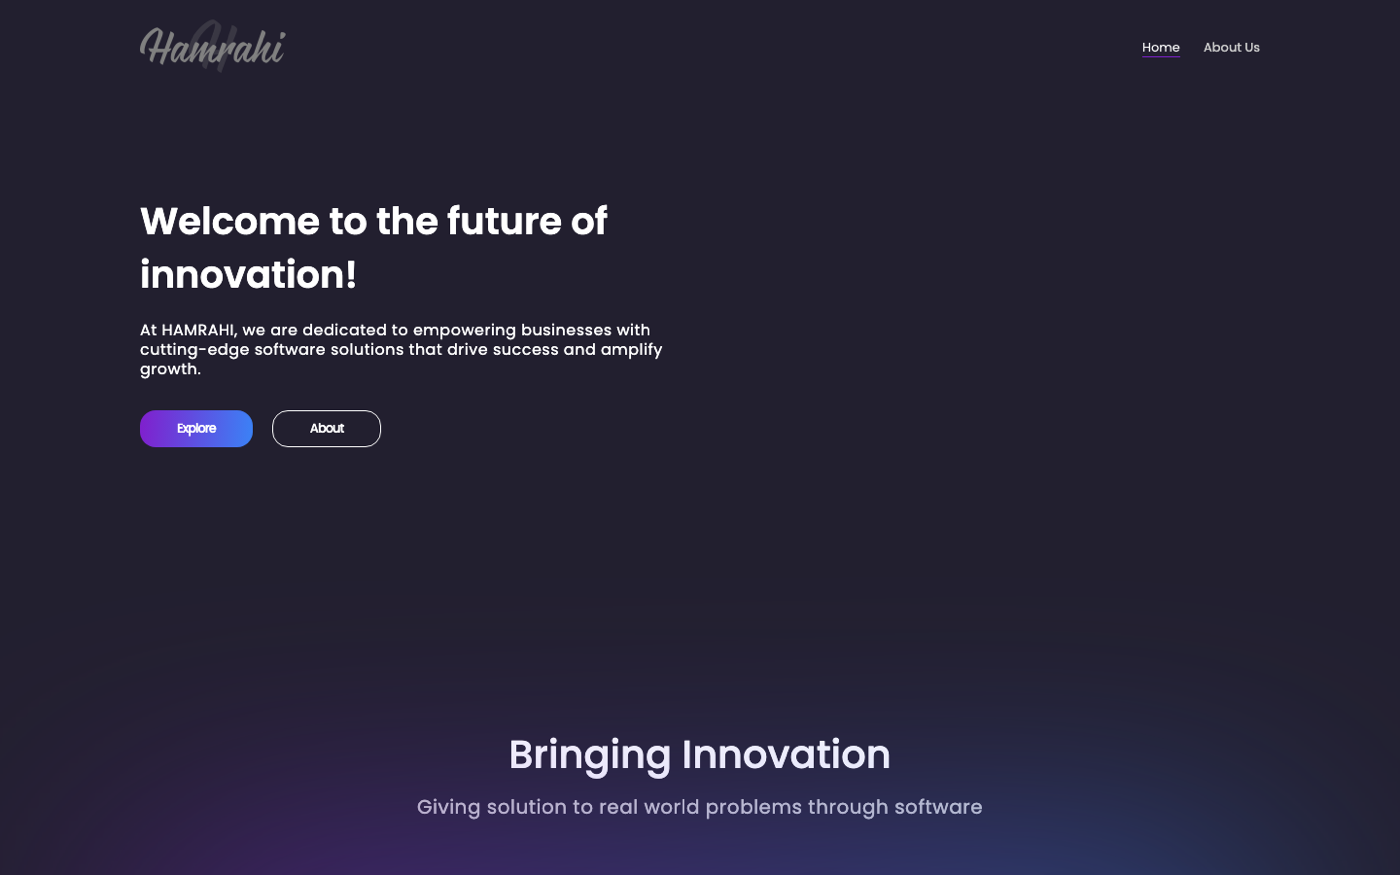
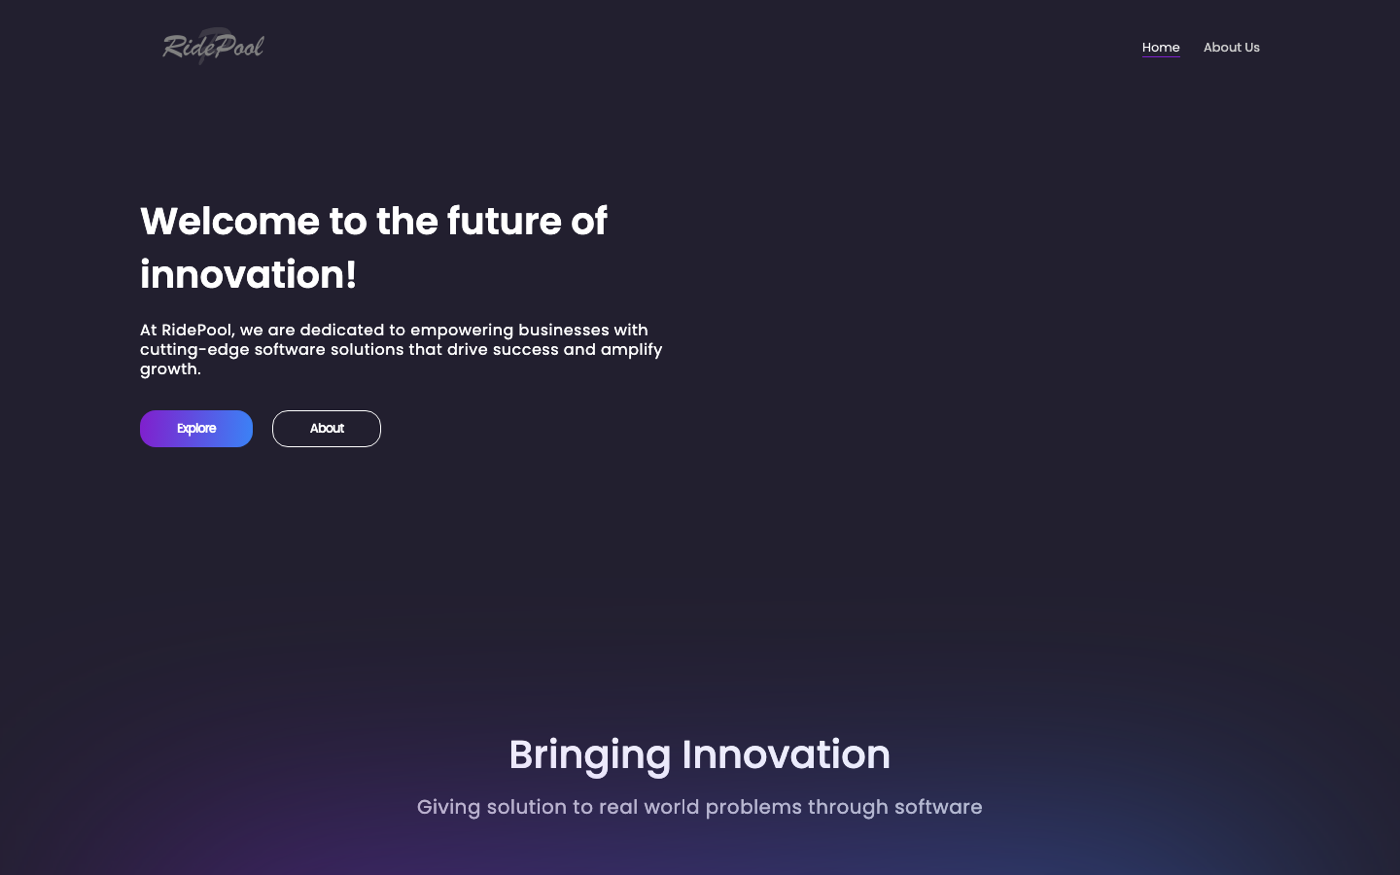
Rebrand to RidePool
Replace the old brand name across code, websites, app config and README; regenerate wordmark logos; rename brand assets and the backend functions module; replace Firebase project identifiers with placeholders.

Changed region(s): [[0.1229, 0.3703, 0.4607, 0.4011], [0.0921, 0.0309, 0.215, 0.0926]]

diff --git a/backend/functions/src/ridepoolFuncs/generateFakeData.js b/backend/functions/src/ridepoolFuncs/generateFakeData.js
@@ -19,7 +19,7 @@ exports.generateFakeRiderData = functions.https.onCall(async (data, context) => 
         first_name: "Fake",
         last_name: "Rider",
         DOB: "1990-01-01",
-        email: "fake_rider_" + Math.floor(Math.random() * 1000000) + "@ridepool.com",
+        email: "fake_rider_" + Math.floor(Math.random() * 1000000) + "@ridepool.app",
         email_verification: false,
         gender: "male",
         phone_number: "0300" + Math.floor(Math.random() * 10000000),

diff --git a/website/landing/index.html b/website/landing/index.html
@@ -264,7 +264,7 @@
 
                 <div class="footer-bottom">
                     <div>
-                        <i class="fa-regular fa-copyright"></i> All rights reserved RidePool PK <span id="Year"></span>
+                        <i class="fa-regular fa-copyright"></i> All rights reserved RidePool <span id="Year"></span>
                     </div>
                     <div class="links">
                         <a href="#"><i class="fa-brands fa-linkedin"></i></a>

diff --git a/web-app/index.html b/web-app/index.html
@@ -190,7 +190,7 @@
 
             <div class="footer-bottom">
                 <div>
-                    <i class="fa-regular fa-copyright"></i> All rights reserved RidePool PK <span id="Year"></span>
+                    <i class="fa-regular fa-copyright"></i> All rights reserved RidePool <span id="Year"></span>
                 </div>
                 <div class="links">
                     <a href="#"><i class="fa-brands fa-linkedin"></i></a>

diff --git a/mobile-app/screens/introScreen.js b/mobile-app/screens/introScreen.js
@@ -12,7 +12,7 @@ export default function IntroScreen({navigation}) {
       <Image
         style={styles.imgstyle}
         resizeMode="contain"
-        source={require('../assets/Hlogo.png')}
+        source={require('../assets/logo.png')}
       />
       <Text style={styles.paragraph}>
           Introducing Pakistan's first fully self-developed ride booking app!

diff --git a/README.md b/README.md
@@ -2,7 +2,7 @@
 
 # Ride-Pooling Platform
 
-**A ride-hailing and ride-pooling platform for Pakistan, built under the brand *RidePool* (Urdu for "fellow traveller"). Passengers can book a private ride, pool with others going the same way, or share a ride with friends, and a serverless Firebase backend matches them to nearby drivers in real time.**
+**RidePool, a ride-hailing and ride-pooling platform for Pakistan. Passengers can book a private ride, pool with others going the same way, or share a ride with friends, and a serverless Firebase backend matches them to nearby drivers in real time.**
 
 ![React Native](https://img.shields.io/badge/React%20Native-Expo%2051-305b8a?logo=react&logoColor=white)
 ![Firebase](https://img.shields.io/badge/Firebase-Functions%20%C2%B7%20Firestore%20%C2%B7%20Auth-b47b40?logo=firebase&logoColor=white)
@@ -53,13 +53,13 @@ passenger                     Cloud Functions                         driver
 
 | Folder | What it is | Stack | Origin |
 |---|---|---|---|
-| [`mobile-app/`](mobile-app) | Production passenger and driver app with GO, Pooling and Sharing flows | Expo 51, React Native 0.74, Redux Toolkit, react-native-maps, Firebase SDK | `RidePool-App` (133 commits) |
-| [`backend/`](backend) | Serverless API: callable Cloud Functions for users, riders, rides, chat and ratings | Node.js, Firebase Functions v2, Firestore, GeoFire, Nodemailer | `App-Backend` (32) |
-| [`web-app/`](web-app) | First version: browser-based booking with live paths and WhatsApp notifications | HTML/CSS/JS, Firebase Auth and Realtime Database, Google Maps, Twilio | `RidePool` (36) |
-| [`website/landing/`](website/landing) | Responsive marketing site for riders and drivers | HTML/CSS/JS | `Front-page` (9) |
-| [`website/company/`](website/company) | Company homepage for RidePool | HTML/CSS/JS | `RidePool-Home` (5) |
-| [`prototypes/firebase-auth/`](prototypes/firebase-auth) | Sign-up, sign-in and sign-out prototype for React Native + Firebase | Expo, Firebase Auth | `Prototype-Funcs` (5) |
-| [`prototypes/navigation/`](prototypes/navigation) | Map navigation prototype: animated car marker following a decoded route polyline | Expo, react-native-maps | `Navigation-Prototype` (8) |
+| [`mobile-app/`](mobile-app) | Production passenger and driver app with GO, Pooling and Sharing flows | Expo 51, React Native 0.74, Redux Toolkit, react-native-maps, Firebase SDK | mobile app repo (133 commits) |
+| [`backend/`](backend) | Serverless API: callable Cloud Functions for users, riders, rides, chat and ratings | Node.js, Firebase Functions v2, Firestore, GeoFire, Nodemailer | backend repo (32) |
+| [`web-app/`](web-app) | First version: browser-based booking with live paths and WhatsApp notifications | HTML/CSS/JS, Firebase Auth and Realtime Database, Google Maps, Twilio | web app repo (36) |
+| [`website/landing/`](website/landing) | Responsive marketing site for riders and drivers | HTML/CSS/JS | landing page repo (9) |
+| [`website/company/`](website/company) | Company homepage | HTML/CSS/JS | company site repo (5) |
+| [`prototypes/firebase-auth/`](prototypes/firebase-auth) | Sign-up, sign-in and sign-out prototype for React Native + Firebase | Expo, Firebase Auth | auth prototype repo (5) |
+| [`prototypes/navigation/`](prototypes/navigation) | Map navigation prototype: animated car marker following a decoded route polyline | Expo, react-native-maps | navigation prototype repo (8) |
 
 ## Getting started
 
@@ -107,6 +107,6 @@ cd web-app && python3 -m http.server 8080      # http://localhost:8080
 
 The project grew across separate repositories, which were merged here with `git filter-repo`, keeping every component's history under its own folder:
 
-`RidePool` (web app, Feb 2023) → `Front-page` and `RidePool-Home` (websites, 2023) → `RidePool-App` (mobile app, Oct 2023 – Nov 2024) → `Prototype-Funcs` and `App-Backend` (2024) → `Navigation-Prototype` (2024).
+web app (Feb 2023) → landing page and company site (2023) → mobile app (Oct 2023 – Nov 2024) → auth prototype and backend (2024) → navigation prototype (2024).
 
 Run `git log -- <folder>` to see the history of a single component.
